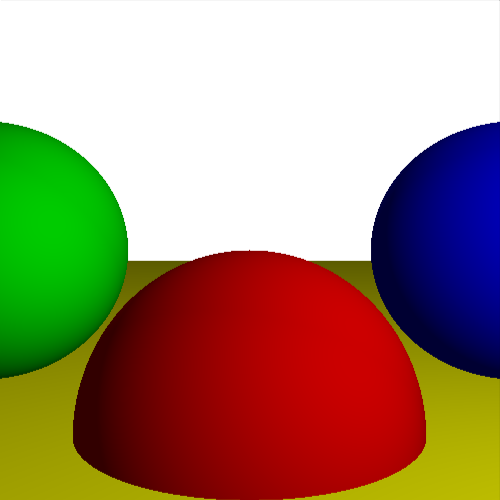
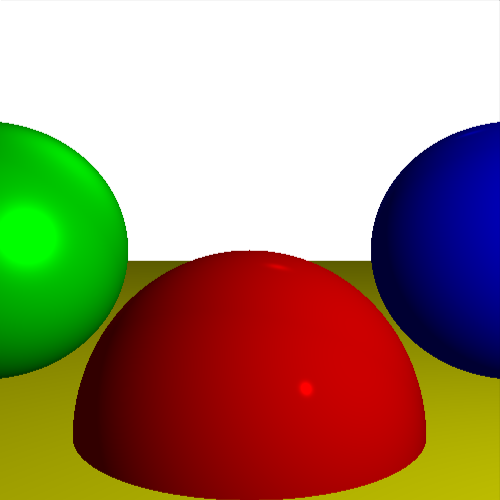
Specular reflection (shiny object rendering)

diff --git a/renderer.go b/renderer.go
@@ -1,16 +1,17 @@
 package main
 
 import (
-	"time"
 	"fmt"
 	"math"
+	"time"
+
 	"github.com/fogleman/gg"
 )
 
 type Color struct {
-	red float64
+	red   float64
 	green float64
-	blue float64
+	blue  float64
 }
 
 type Coords struct {
@@ -20,9 +21,10 @@ type Coords struct {
 }
 
 type Sphere struct {
-	center Coords
-	radius float64
-	color Color
+	center   Coords
+	radius   float64
+	color    Color
+	specular float64 // fancy word for shininess
 }
 
 type Light interface {
@@ -39,7 +41,7 @@ func (light AmbientLight) GetIntensity() float64 {
 
 type PointLight struct {
 	intensity float64
-	position Coords
+	position  Coords
 }
 
 func (light PointLight) GetIntensity() float64 {
@@ -56,24 +58,24 @@ func (light DirectionalLight) GetIntensity() float64 {
 }
 
 type Scene struct {
-	viewport_size [2]int
+	viewport_size      [2]int
 	projection_plane_d int
-	spheres []Sphere 
-	lights []Light
+	spheres            []Sphere
+	lights             []Light
 }
 
 const (
 	// Canvas Settings
-	C_Width float64 = 500
+	C_Width  float64 = 500
 	C_Height float64 = 500
 
 	// Viewport Settings
 	V_Height float64 = 1
-	V_Width float64 = 1
-	V_Dist float64 = 1
+	V_Width  float64 = 1
+	V_Dist   float64 = 1
 )
 
-/* 
+/*
 	COORDINATE / VECTOR FUNCTIONS
 */
 
@@ -123,27 +125,43 @@ func Length(vec Coords) float64 {
 	return magnitude
 }
 
+func IntensifyColor(color Color, intensity float64) Color {
+	result := Color{
+		red:   color.red * intensity,
+		green: color.green * intensity,
+		blue:  color.blue * intensity,
+	}
+	return result
+}
+
+func NormalizeColor(color Color) (float64, float64, float64) {
+	// all colors "intensified" after 255 need to be flattened to 255 for proper rendering
+	if color.red > 255 {
+		color.red = 255
+	}
+	if color.green > 255 {
+		color.green = 255
+	}
+	if color.blue > 255 {
+		color.blue = 255
+	}
+
+	// graphics library requires color channel values to be from 0-1
+	return color.red / 255, color.green / 255, color.blue / 255
+}
+
 /*
 	CANVAS / RAY TRACING OPERATIONS
 */
 
 func DrawPixel(canvas *gg.Context, C_x float64, C_y float64, color Color) {
 	// Scene Coordinates
-	S_x := (C_Width / 2) + C_x 
-	S_y := (C_Height / 2) - C_y 
+	S_x := (C_Width / 2) + C_x
+	S_y := (C_Height / 2) - C_y
 
-	canvas.SetRGB(color.red, color.green, color.blue)
-	canvas.DrawPoint(S_x, S_y, 1) 
+	canvas.SetRGB(NormalizeColor(color))
+	canvas.DrawPoint(S_x, S_y, 1)
 	canvas.Fill()
-}
-
-func IntensifyColor(color Color, intensity float64) Color {
-	result := Color{
-		red: color.red * intensity,
-		green: color.green * intensity,
-		blue: color.blue * intensity,
-	}
-	return result
 }
 
 func CanvasToViewPort(C_x, C_y float64) Coords {
@@ -158,29 +176,29 @@ func IntersectRaySphere(camera Coords, dir Coords, sphere Sphere) (float64, floa
 	rad := sphere.radius
 	dist := Subtract(camera, sphere.center)
 
-	a := Dot(dir, dir)	
+	a := Dot(dir, dir)
 	b := 2 * Dot(dist, dir)
 	c := Dot(dist, dist) - (rad * rad)
 
-	discriminant := (b*b) - (4*a*c)
+	discriminant := (b * b) - (4 * a * c)
 
 	if discriminant < 0 {
 		return math.Inf(1), math.Inf(1)
 	}
 
-	t1 := (-b + math.Sqrt(discriminant)) / (2*a)
-	t2 := (-b - math.Sqrt(discriminant)) / (2*a)
+	t1 := (-b + math.Sqrt(discriminant)) / (2 * a)
+	t2 := (-b - math.Sqrt(discriminant)) / (2 * a)
 
 	return t1, t2
 }
 
 /*
-	Computes intensity at a certain point's color
-	- scene = 3D scene
-	- point = coordinates in 3D scene where light hits
-	- normal = unit vector perpendicular to the surface of point  
+Computes intensity at a certain point's color
+- scene = 3D scene
+- point = coordinates in 3D scene where light hits
+- normal = unit vector perpendicular to the surface of point
 */
-func ComputeLighting(scene Scene, point Coords, normal Coords) float64 {
+func ComputeLighting(scene Scene, point Coords, normal Coords, view Coords, specularity float64) float64 {
 	// intensity = multiplier given to color in rendering to simulate light
 	intensity := 0.00
 
@@ -193,29 +211,37 @@ func ComputeLighting(scene Scene, point Coords, normal Coords) float64 {
 
 			if point_light, ok := light.(PointLight); ok {
 				light_vec = Subtract(point_light.position, point)
-			}
-			if directional_light, ok := light.(DirectionalLight); ok {
+			} else if directional_light, ok := light.(DirectionalLight); ok {
 				light_vec = directional_light.direction
 			}
 
+			// DIFFUSE REFLECTION CALCULATION
 			n_dot_l := Dot(normal, light_vec)
 			// don't add negative values to intensity
 			if n_dot_l > 0 {
 				intensity += light.GetIntensity() * (n_dot_l / (Length(normal) * Length(light_vec)))
 			}
+
+			// SPECULAR REFLECTION CALCULATION
+			if specularity != -1 {
+				reflection := Subtract(Multiply(normal, Dot(normal, light_vec)*2), light_vec)
+				r_dot_v := Dot(reflection, view)
+				if r_dot_v > 0 {
+					intensity += light.GetIntensity() * math.Pow(r_dot_v/(Length(reflection)*Length(view)), specularity)
+				}
+			}
 		}
 	}
-
 	return intensity
 }
 
 /*
-	Performs calculations to return color based on a given direction
-	- scene = 3D scene containing objects
-	- camera = coordinates of the camera
-	- dir = coordinates of the direction being drawn based on X and Y coordinates
-	- t_min = minimum magnitude of vector extending from viewport
-	- t_max = maximum magnitude of vector extending from viewport
+Performs calculations to return color based on a given direction
+- scene = 3D scene containing objects
+- camera = coordinates of the camera
+- dir = coordinates of the direction being drawn based on X and Y coordinates
+- t_min = minimum magnitude of vector extending from viewport
+- t_max = maximum magnitude of vector extending from viewport
 */
 func TraceRay(bg_color Color, scene Scene, camera Coords, dir Coords, t_min float64, t_max float64) Color {
 	t_closest := math.Inf(1)
@@ -240,39 +266,39 @@ func TraceRay(bg_color Color, scene Scene, camera Coords, dir Coords, t_min floa
 		return bg_color
 	}
 
-	// intensity calculations: 
-	
+	// intensity calculations:
+
 	// point = coordinates in 3D scene where light hits (OOO unclear...)
 	point := Add(camera, Multiply(dir, t_closest))
-	// normal = unit vector perpendicular to the surface of point 
+	// normal = unit vector perpendicular to the surface of point
 	normal := Subtract(point, sphere_closest.center)
 	normal = Divide(normal, Length(normal))
-	// intensity = multiplier given to color in rendering to simulate light
-	intensity := ComputeLighting(scene, point, normal)
 
+	// intensity = multiplier given to color in rendering to simulate light
+	intensity := ComputeLighting(scene, point, normal, Multiply(dir, -1), sphere_closest.specular)
 	return IntensifyColor(sphere_closest.color, intensity)
 }
 
 func main() {
 	start := time.Now()
 
-    canvas := gg.NewContext(int(C_Width), int(C_Height))
+	canvas := gg.NewContext(int(C_Width), int(C_Height))
 
-    // Set the background color
+	// Set the background color
 	canvas.SetRGB(0, 0, 0) // black
 	canvas.Clear()
 
 	camera := Coords{0, 0, 0}
-	bg_color := Color{1, 1, 1}
+	bg_color := Color{255, 255, 255}
 
-	scene := Scene {
-		viewport_size: [2]int{1, 1},
+	scene := Scene{
+		viewport_size:      [2]int{1, 1},
 		projection_plane_d: 100,
 		spheres: []Sphere{
-			Sphere{center: Coords{0, -1, 3}, radius: 1, color: Color{1, 0, 0}},
-			Sphere{center: Coords{2, 0, 4}, radius: 1, color: Color{0, 0, 1}},
-			Sphere{center: Coords{-2, 0, 4}, radius: 1, color: Color{0, 1, 0}},
-			Sphere{center: Coords{0, -5001, 0}, radius: 5000, color: Color{1, 1, 0}},
+			{center: Coords{0, -1, 3}, radius: 1, color: Color{255, 0, 0}, specular: 500},
+			{center: Coords{2, 0, 4}, radius: 1, color: Color{0, 0, 255}, specular: 500},
+			{center: Coords{-2, 0, 4}, radius: 1, color: Color{0, 255, 0}, specular: 10},
+			{center: Coords{0, -5001, 0}, radius: 5000, color: Color{255, 255, 0}, specular: 1000},
 		},
 		lights: []Light{
 			AmbientLight{intensity: 0.2},
@@ -281,13 +307,13 @@ func main() {
 		},
 	}
 
-	for x := - (C_Width / 2); x < (C_Width / 2); x++ {
-		for y := - (C_Height / 2); y < (C_Height / 2); y++ {
+	for x := -(C_Width / 2); x < (C_Width / 2); x++ {
+		for y := -(C_Height / 2); y < (C_Height / 2); y++ {
 			dir := CanvasToViewPort(x, y)
-			color := TraceRay(bg_color, scene, camera, dir, 1, math.Inf(1))	
+			color := TraceRay(bg_color, scene, camera, dir, 1, math.Inf(1))
 			DrawPixel(canvas, x, y, color)
-		} 
-	} 
+		}
+	}
 
 	save_location := "img.png"
 	canvas.SavePNG(save_location)
